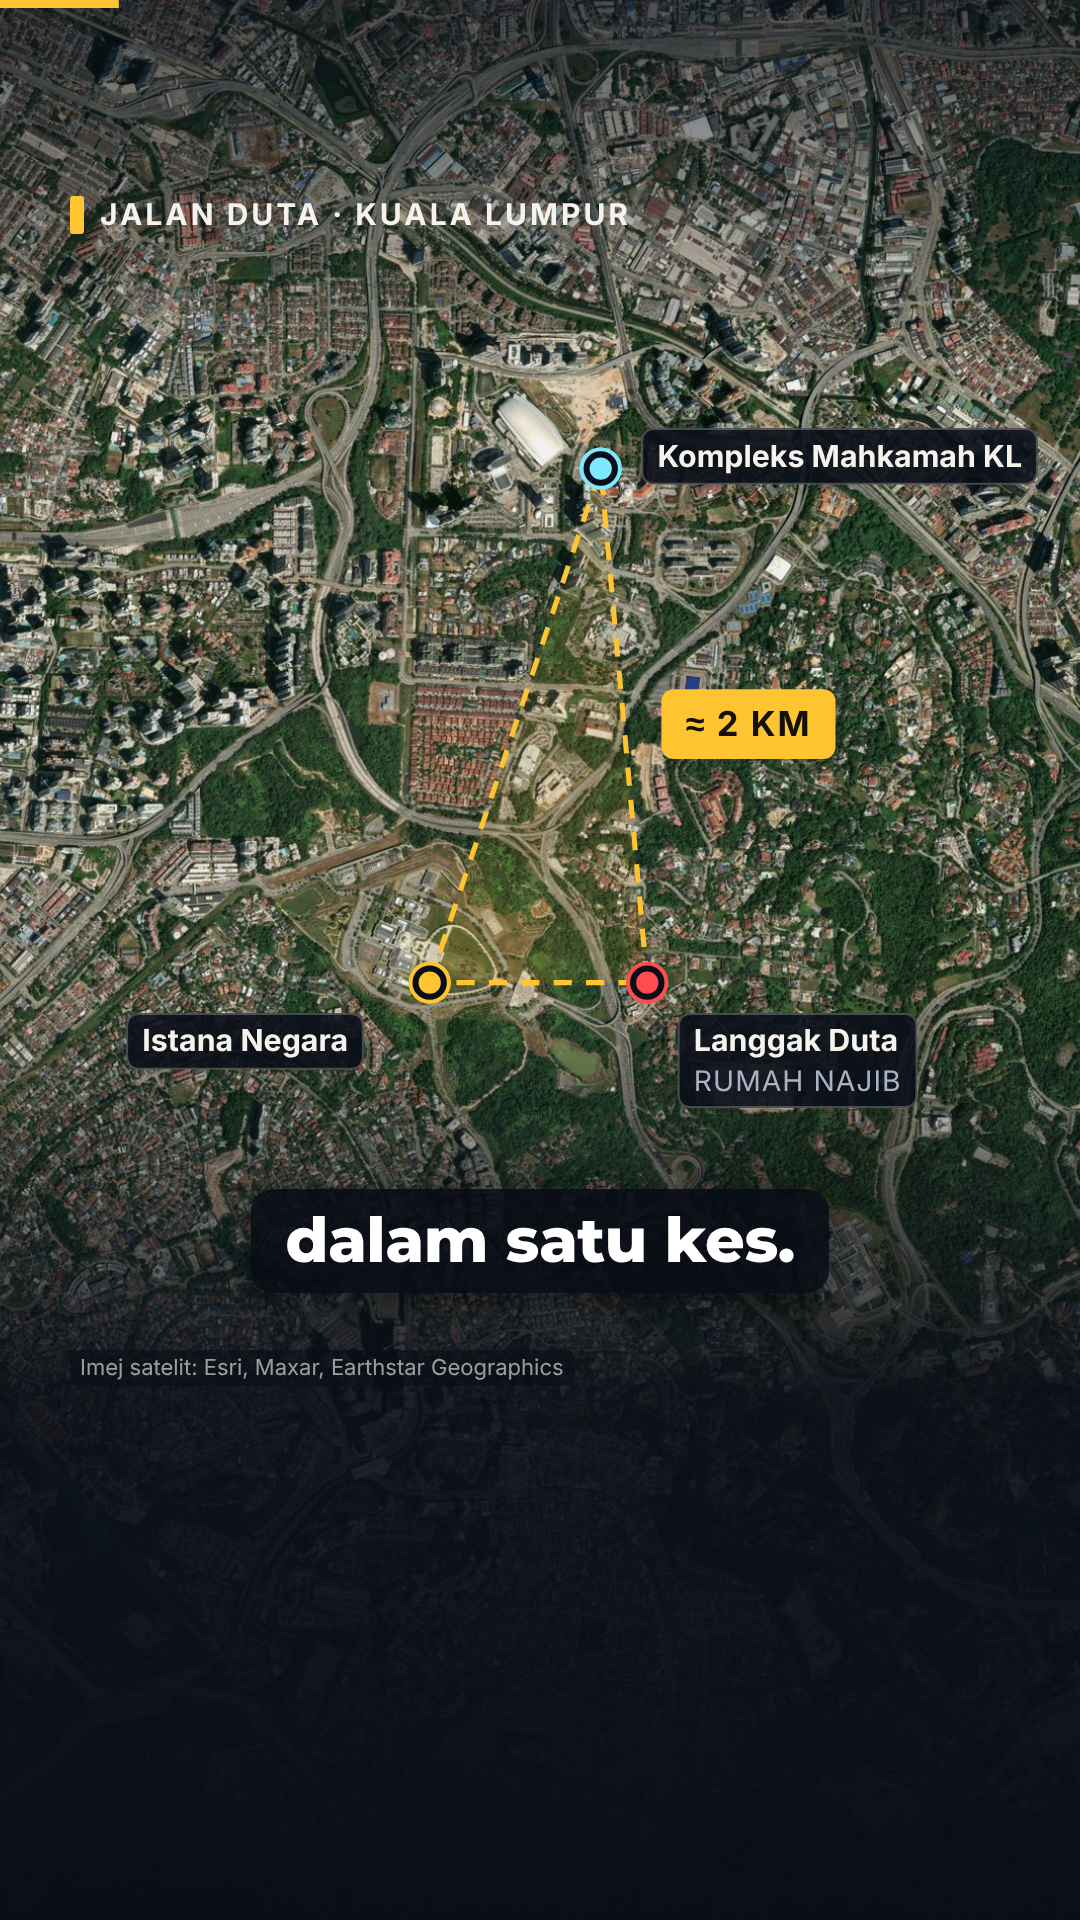
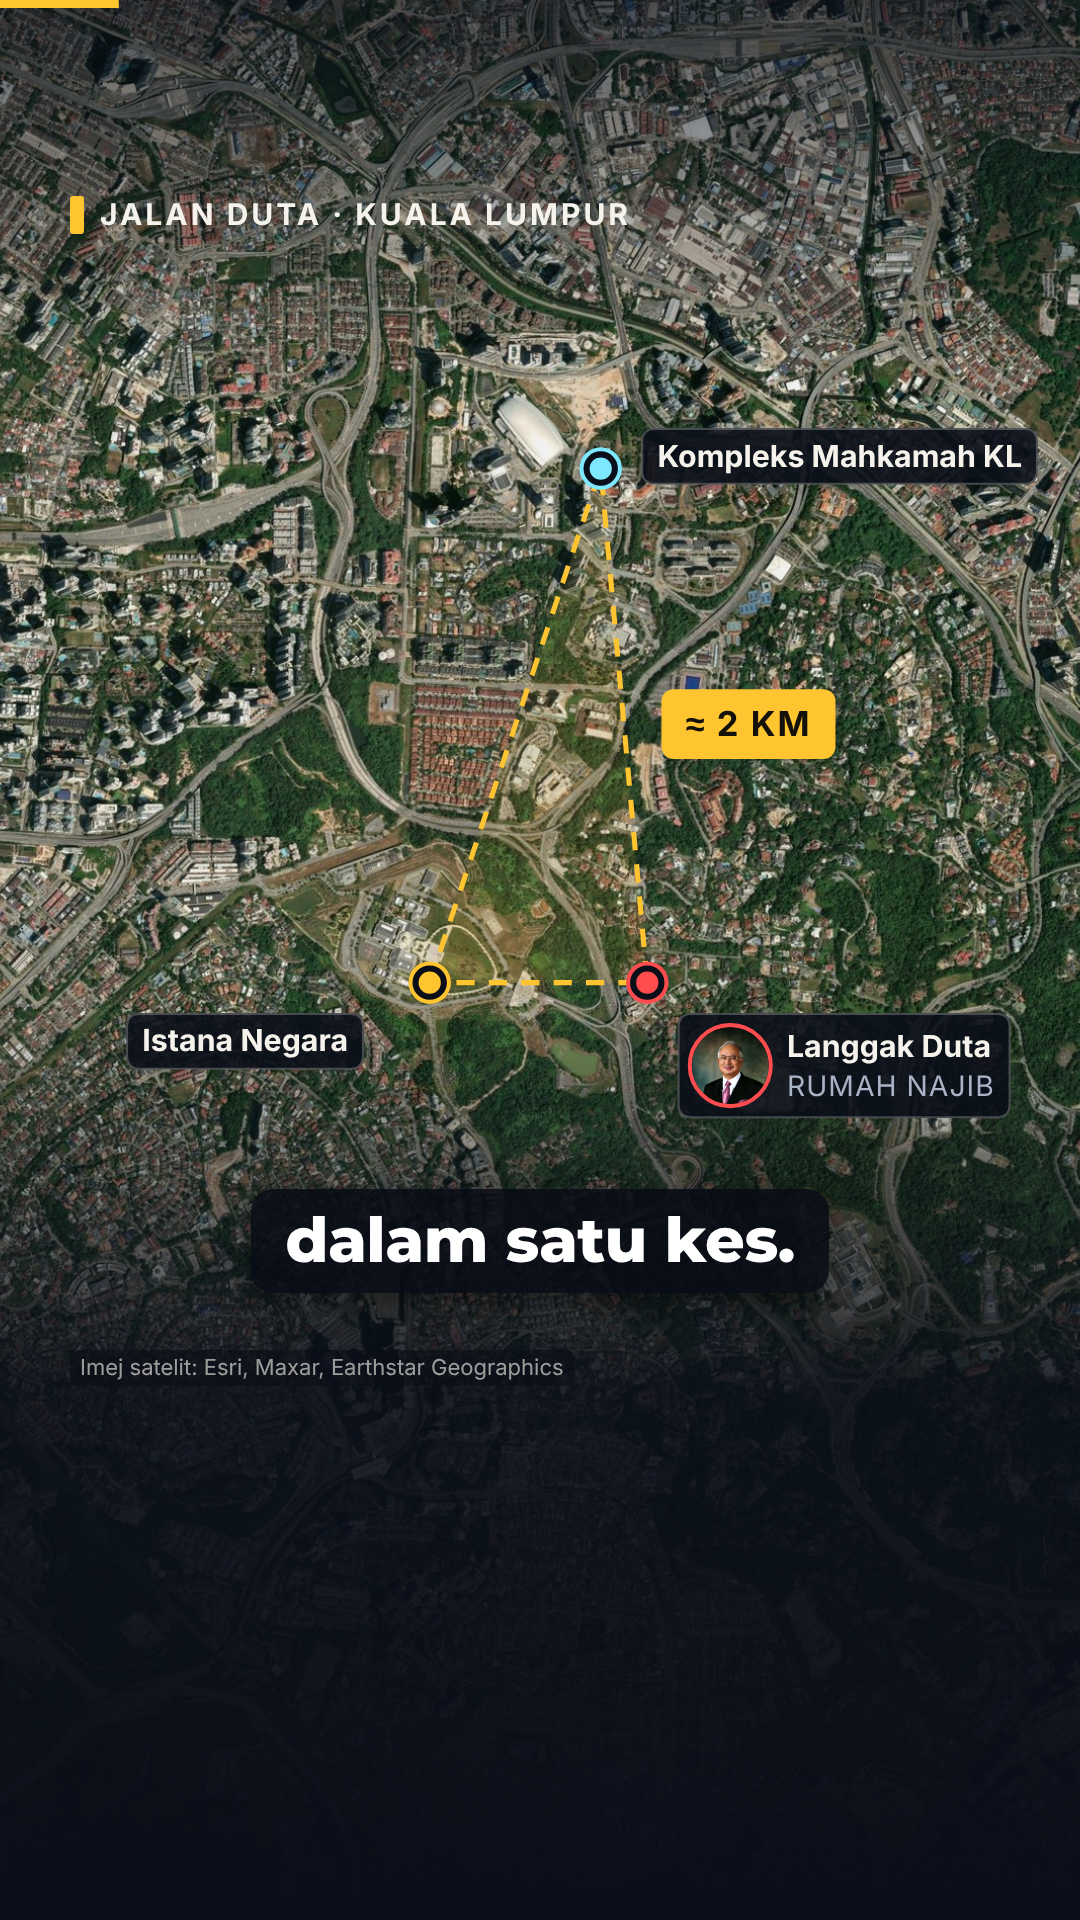
najib-semakan-video: Najib portrait in scene 2 and on the hook's house pin
Claude-Session: https://claude.ai/code/session_01GRVCpV6TSzye4FHKZZxQ5Q

Changed region(s): [[0.6417, 0.5, 0.9472, 0.5938]]

diff --git a/najib-semakan-video/index.html b/najib-semakan-video/index.html
@@ -66,7 +66,7 @@
             </svg>
             <div class="pin" id="s1p1" style="left:431px;top:980px"><div class="ring" id="s1r1"></div><div class="dot"></div><div class="tag" style="left:-300px;top:30px;font-size:30px;padding:8px 14px">Istana Negara</div></div>
             <div class="pin cyan" id="s1p2" style="left:600px;top:472px"><div class="ring" id="s1r2"></div><div class="dot"></div><div class="tag" style="left:40px;top:-40px;font-size:30px;padding:8px 14px">Kompleks Mahkamah KL</div></div>
-            <div class="pin red" id="s1p3" style="left:646px;top:980px"><div class="ring" id="s1r3"></div><div class="dot"></div><div class="tag" style="left:30px;top:30px;font-size:30px;padding:8px 14px">Langgak Duta<small>RUMAH NAJIB</small></div></div>
+            <div class="pin red" id="s1p3" style="left:646px;top:980px"><div class="ring" id="s1r3"></div><div class="dot"></div><div class="tag" style="left:30px;top:30px;font-size:30px;padding:8px 14px 8px 8px;display:flex;align-items:center;gap:14px"><div style="flex:none;width:84px;height:84px;border-radius:50%;overflow:hidden;border:4px solid var(--red)"><img src="assets/photos/najib.jpg" alt="" style="width:100%;height:100%;object-fit:cover;object-position:50% 12%" /></div><div>Langgak Duta<small>RUMAH NAJIB</small></div></div></div>
             <div id="s1km" style="position:absolute;left:660px;top:690px"><span class="chip">≈ 2 KM</span></div>
           </div>
           
@@ -79,18 +79,17 @@
       <!-- 2 · house arrest until Aug 2028 -->
       <div id="s2" class="scene clip" data-start="7.32" data-duration="6.75" data-track-index="1" data-track-kind="graphics" style="z-index:2">
         <div class="in" id="s2in">
-          <div class="kb" id="s2map" style="transform-origin:540px 960px"><img class="bg" src="assets/maps/home.jpg" alt="" />
-            <svg width="1080" height="1920" style="position:absolute;left:0;top:0"><circle id="s2c" cx="540" cy="960" r="150" fill="rgba(255,77,79,.16)" stroke="#ff4d4f" stroke-width="7" stroke-dasharray="26 16" /></svg></div>
-          <div class="mapshade" style="background:linear-gradient(180deg, rgba(10,14,24,.86) 0%, rgba(10,14,24,.25) 24%, rgba(10,14,24,.2) 40%, rgba(10,14,24,.92) 60%, #0a0e18 100%)"></div>
+          <div class="kb" id="s2kb"><img class="bg" src="assets/photos/najib.jpg" alt="" style="height:1303px;object-position:50% 0%" /></div>
+          <div class="shade face"></div>
           <div class="kicker"><i></i><span>Sekarang</span></div>
-          <div class="h" id="s2t" style="position:absolute;left:70px;right:70px;top:262px;font-size:96px">TAHANAN <span style="color:var(--red)">RUMAH</span></div>
-          <div id="s2tl" style="position:absolute;left:90px;right:90px;top:900px">
+          <div class="h" id="s2t" style="position:absolute;left:70px;right:70px;top:660px;font-size:96px">TAHANAN <span style="color:var(--red)">RUMAH</span></div>
+          <div id="s2tl" style="position:absolute;left:90px;right:90px;top:840px">
             <div style="position:relative;height:14px;border-radius:7px;background:rgba(246,243,236,.25)"><div id="s2fill" style="position:absolute;inset:0;border-radius:7px;background:var(--yellow);transform-origin:0 50%"></div></div>
             <div style="display:flex;justify-content:space-between;margin-top:30px;font-weight:700;font-size:34px;line-height:1.25">
               <div id="s2a">18 Sept 2026<br /><span style="color:var(--dim);font-weight:400">pengampunan bersyarat</span></div>
               <div id="s2b" style="text-align:right;color:var(--yellow)">23 Ogos 2028<br /><span style="font-weight:400">tamat</span></div></div>
           </div>
-          <div class="credit" data-layout-ignore>Imej satelit: Esri, Maxar, Earthstar Geographics</div>
+          <div class="credit" data-layout-ignore>Foto: Kerajaan Malaysia / Wikimedia Commons, CC BY-SA 3.0</div>
         </div>
       </div>
 
@@ -231,8 +230,8 @@
       ping("#s1r1", W(1, "bersambung")); ping("#s1r2", W(1, "bersambung")); ping("#s1r3", W(1, "bersambung"));
 
       // 2 house arrest: circle, then the timeline fills to 2028
-      tl.fromTo("#s2map", { scale: 1.3, y: -330 }, { scale: 1.42, y: -330, duration: D(2), ease: "none" }, SC[1]);
-      pop("#s2t", SC[1] + 0.2); tl.from("#s2c", { opacity: 0, attr: { r: 30 }, duration: 0.6, ease: "back.out(1.6)" }, W(2, "rumah") - 0.1);
+      tl.fromTo("#s2kb", { scale: 1.02 }, { scale: 1.12, duration: D(2), ease: "none" }, SC[1]);
+      pop("#s2t", W(2, "rumah") - 0.2);
       pop("#s2tl", W(2, "sampai") - 0.3); tl.fromTo("#s2fill", { scaleX: 0 }, { scaleX: 1, duration: 1.0, ease: "power2.inOut" }, W(2, "ogos") - 0.2);
       tl.from("#s2a", { opacity: 0, duration: 0.3 }, W(2, "pengampunan") - 0.1);
 

diff --git a/najib-semakan-video/STORYBOARD.md b/najib-semakan-video/STORYBOARD.md
@@ -23,7 +23,7 @@ Video sambungan (episod 2).
 | # | Masa | Visual | Gerakan |
 |---|---|---|---|
 | 1 | 0–5 | Satelit Jalan Duta dari atas. Tajuk "BADAN PEGUAM vs TAHANAN RUMAH" pada frame 0 | Kamera terjun dari glob ke Jalan Duta; 3 pin jatuh satu-satu: Istana Negara, Kompleks Mahkamah KL, Langgak Duta |
-| 2 | 5–12 | Pin rumah Langgak Duta (dekat) | Bulatan merah putus-putus; garis masa 18 Sept 2026 → 23 Ogos 2028 terisi |
+| 2 | 5–12 | Potret Najib (gambar rasmi, Wikimedia) | Tajuk "TAHANAN RUMAH" bawah muka; garis masa 18 Sept 2026 → 23 Ogos 2028 terisi |
 | 3 | 12–20 | Satelit pusat KL | Garisan kuning dilukis dari Wisma Badan Peguam (Leboh Pasar Besar) ke Kompleks Mahkamah Jalan Duta; label "10 NOV: FAIL SEMAKAN" |
 | 4 | 20–28 | Latar gelap, kad biru Badan Peguam | Tiga perkataan dipangkah satu demi satu: PENGAMPUNAN ✗, PENANGGUHAN ✗, PEREMITAN ✗; cip "Perkara 42" |
 | 5 | 28–37 | Satelit Lembah Klang (zum keluar) | Garisan merah dari Jabatan Peguam Negara, Putrajaya ke mahkamah KL; label "12 NOV: AGC BANTAH" |
